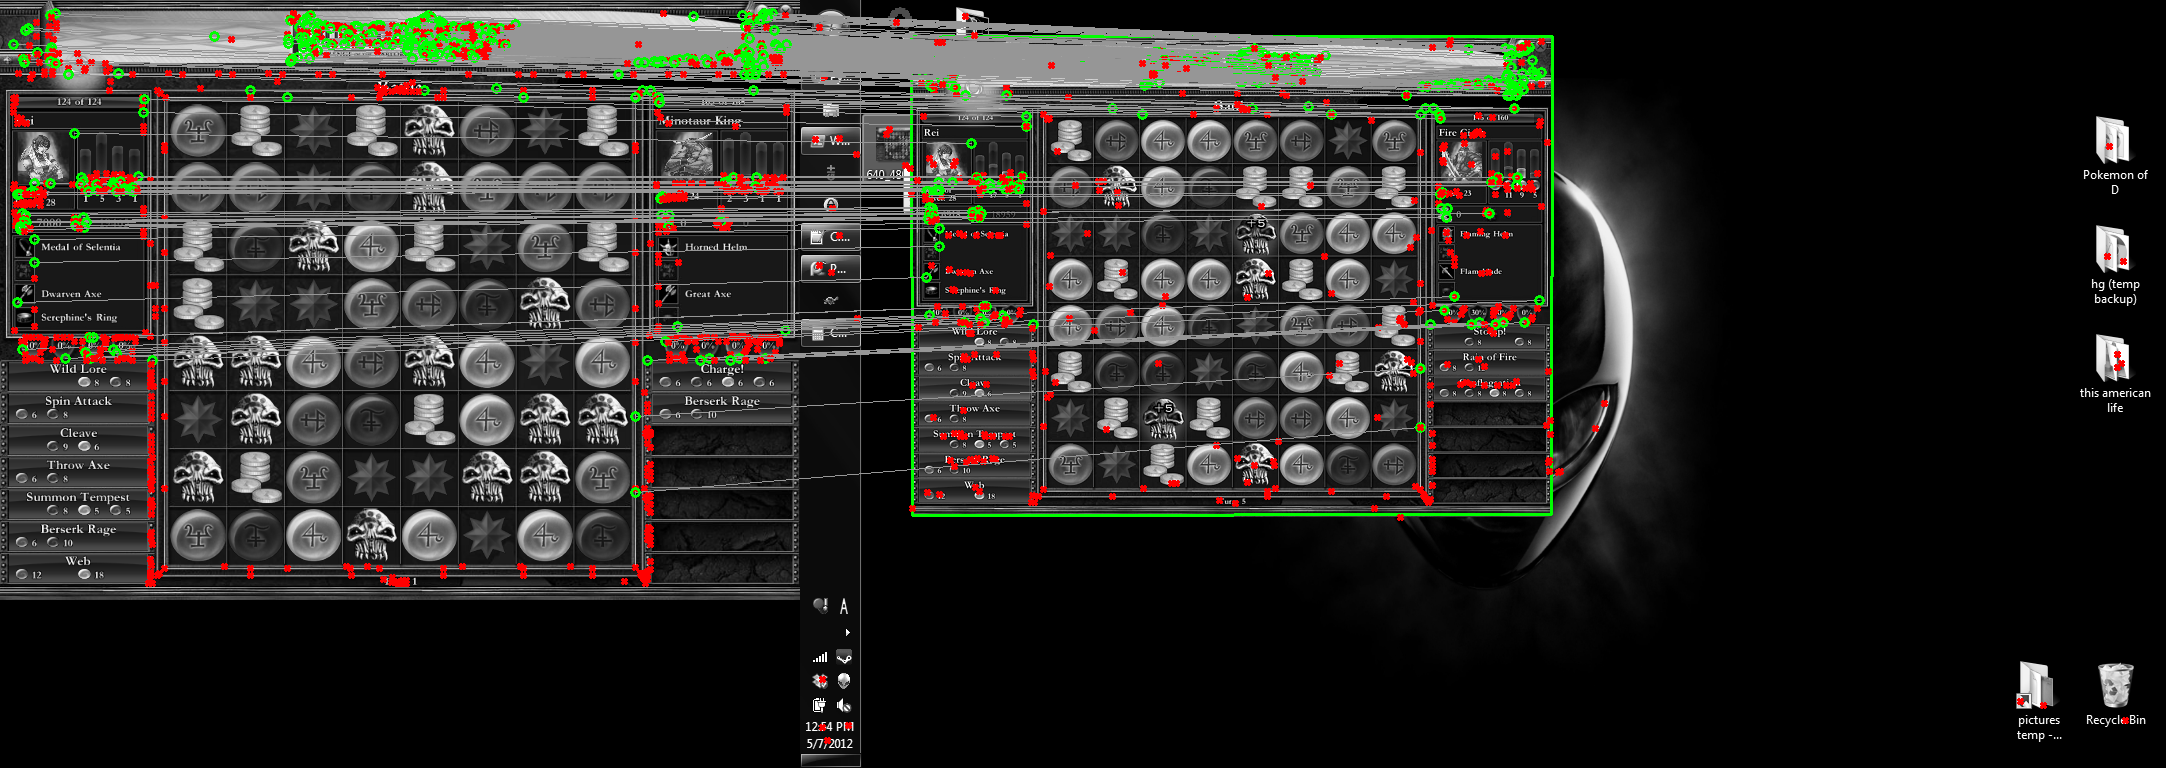
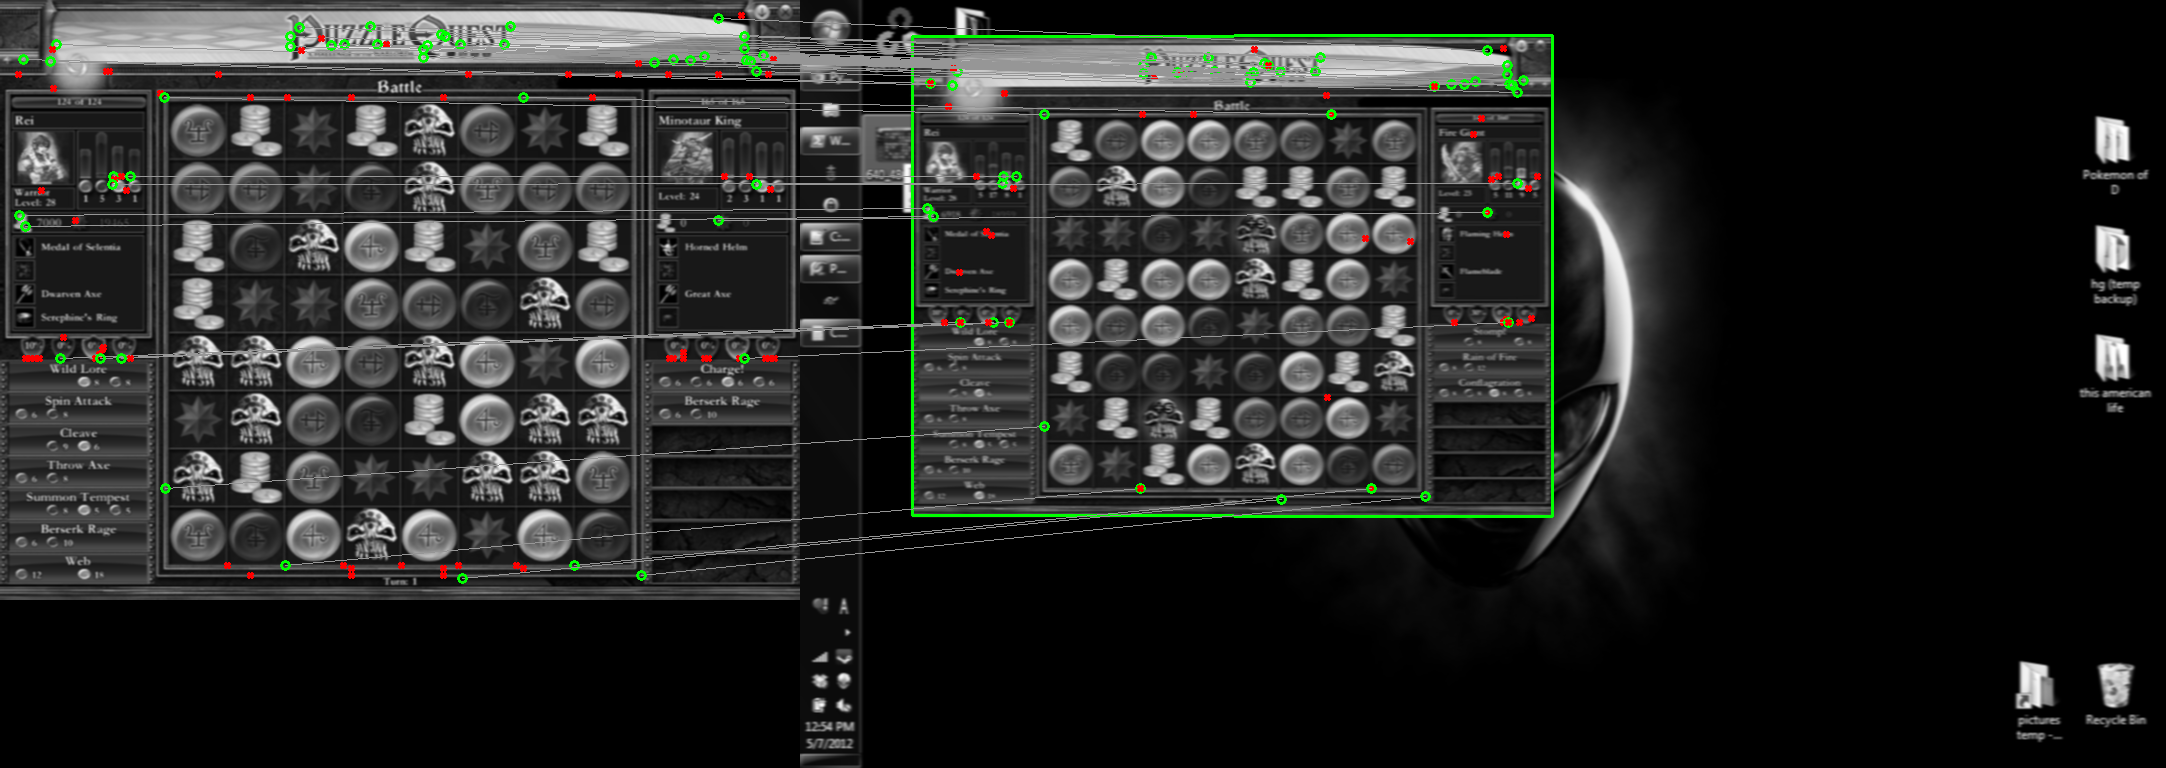
Made the gaussian kernel do a basic adjustment based on the size of the image.

diff --git a/brisk_demo.py b/brisk_demo.py
@@ -15,9 +15,11 @@ def showimage(image):
 #everything that can be done and stored ahead of time:
 obj_original = cv2.imread('vs_obj_800x600.png', cv2.CV_LOAD_IMAGE_COLOR)
 obj = cv2.cvtColor(obj_original, cv2.COLOR_BGR2GRAY)
-obj = cv2.GaussianBlur(obj, (3,3), 0) #blur to make features match at different resolutions
-
+kernel_w = int(2.0 * round((obj.shape[1]*0.005+1)/2.0)-1)
+kernel_h = int(2.0 * round((obj.shape[0]*0.005+1)/2.0)-1)
+obj = cv2.GaussianBlur(obj, (kernel_w, kernel_h), 0) #blur to make features match at different resolutions
 obj_mask = cv2.imread('vs_obj_mask_800x600.png', cv2.CV_LOAD_IMAGE_GRAYSCALE)
+detector = cv2.FastFeatureDetector()
 obj_keypoints = detector.detect(obj, obj_mask)
 print '************************************************************'
 print 'scene - {} keypoints'.format(len(obj_keypoints))
@@ -30,7 +32,9 @@ object_corners = np.float32([(0,0), (obj_w, 0), (obj_w, obj_h), (0, obj_h)]) #st
 #get the scene to be searched
 scene_original = cv2.imread('scene_with_vs_640x480.png', cv2.CV_LOAD_IMAGE_COLOR)
 scene = cv2.cvtColor(scene_original, cv2.COLOR_BGR2GRAY)
-scene = cv2.GaussianBlur(scene, (3,3), 0) #blur to make features match at different resolutions
+kernel_w = int(2.0 * round((scene.shape[1]*0.005+1)/2.0)-1)
+kernel_h = int(2.0 * round((scene.shape[0]*0.005+1)/2.0)-1)
+scene = cv2.GaussianBlur(scene, (kernel_w, kernel_h), 0) #blur to make features match at different resolutions
 
 
 #detect keypoints
